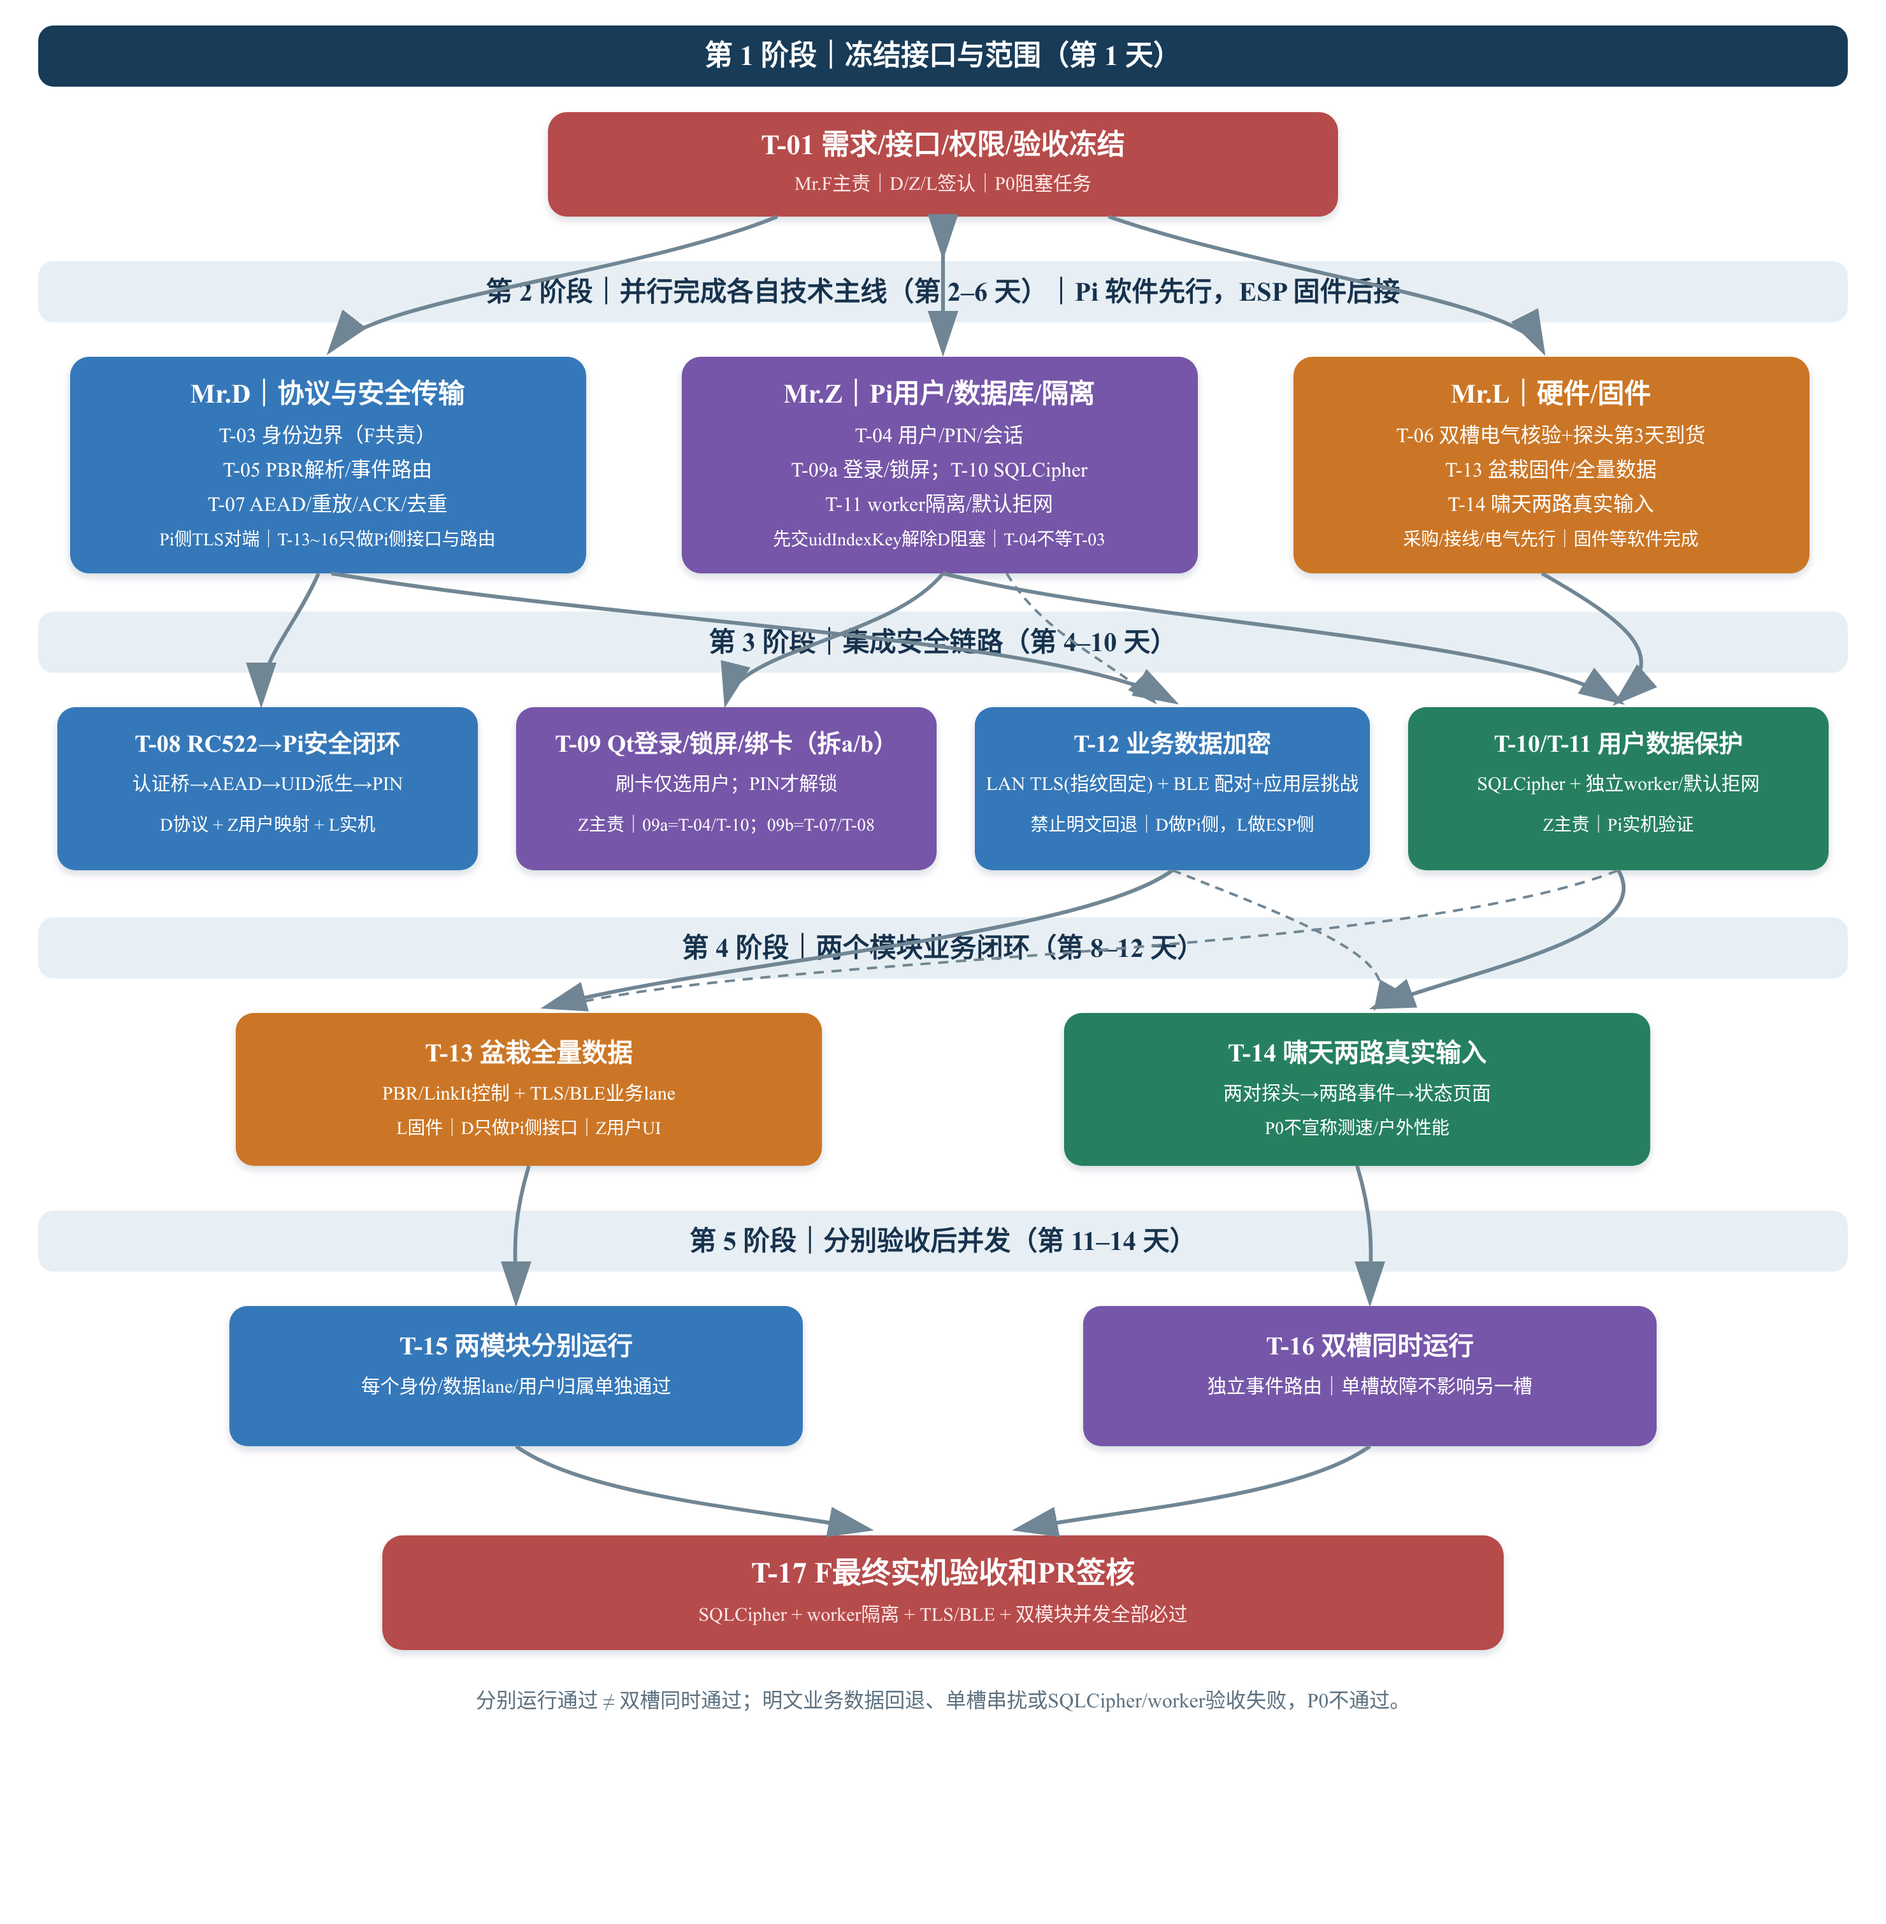
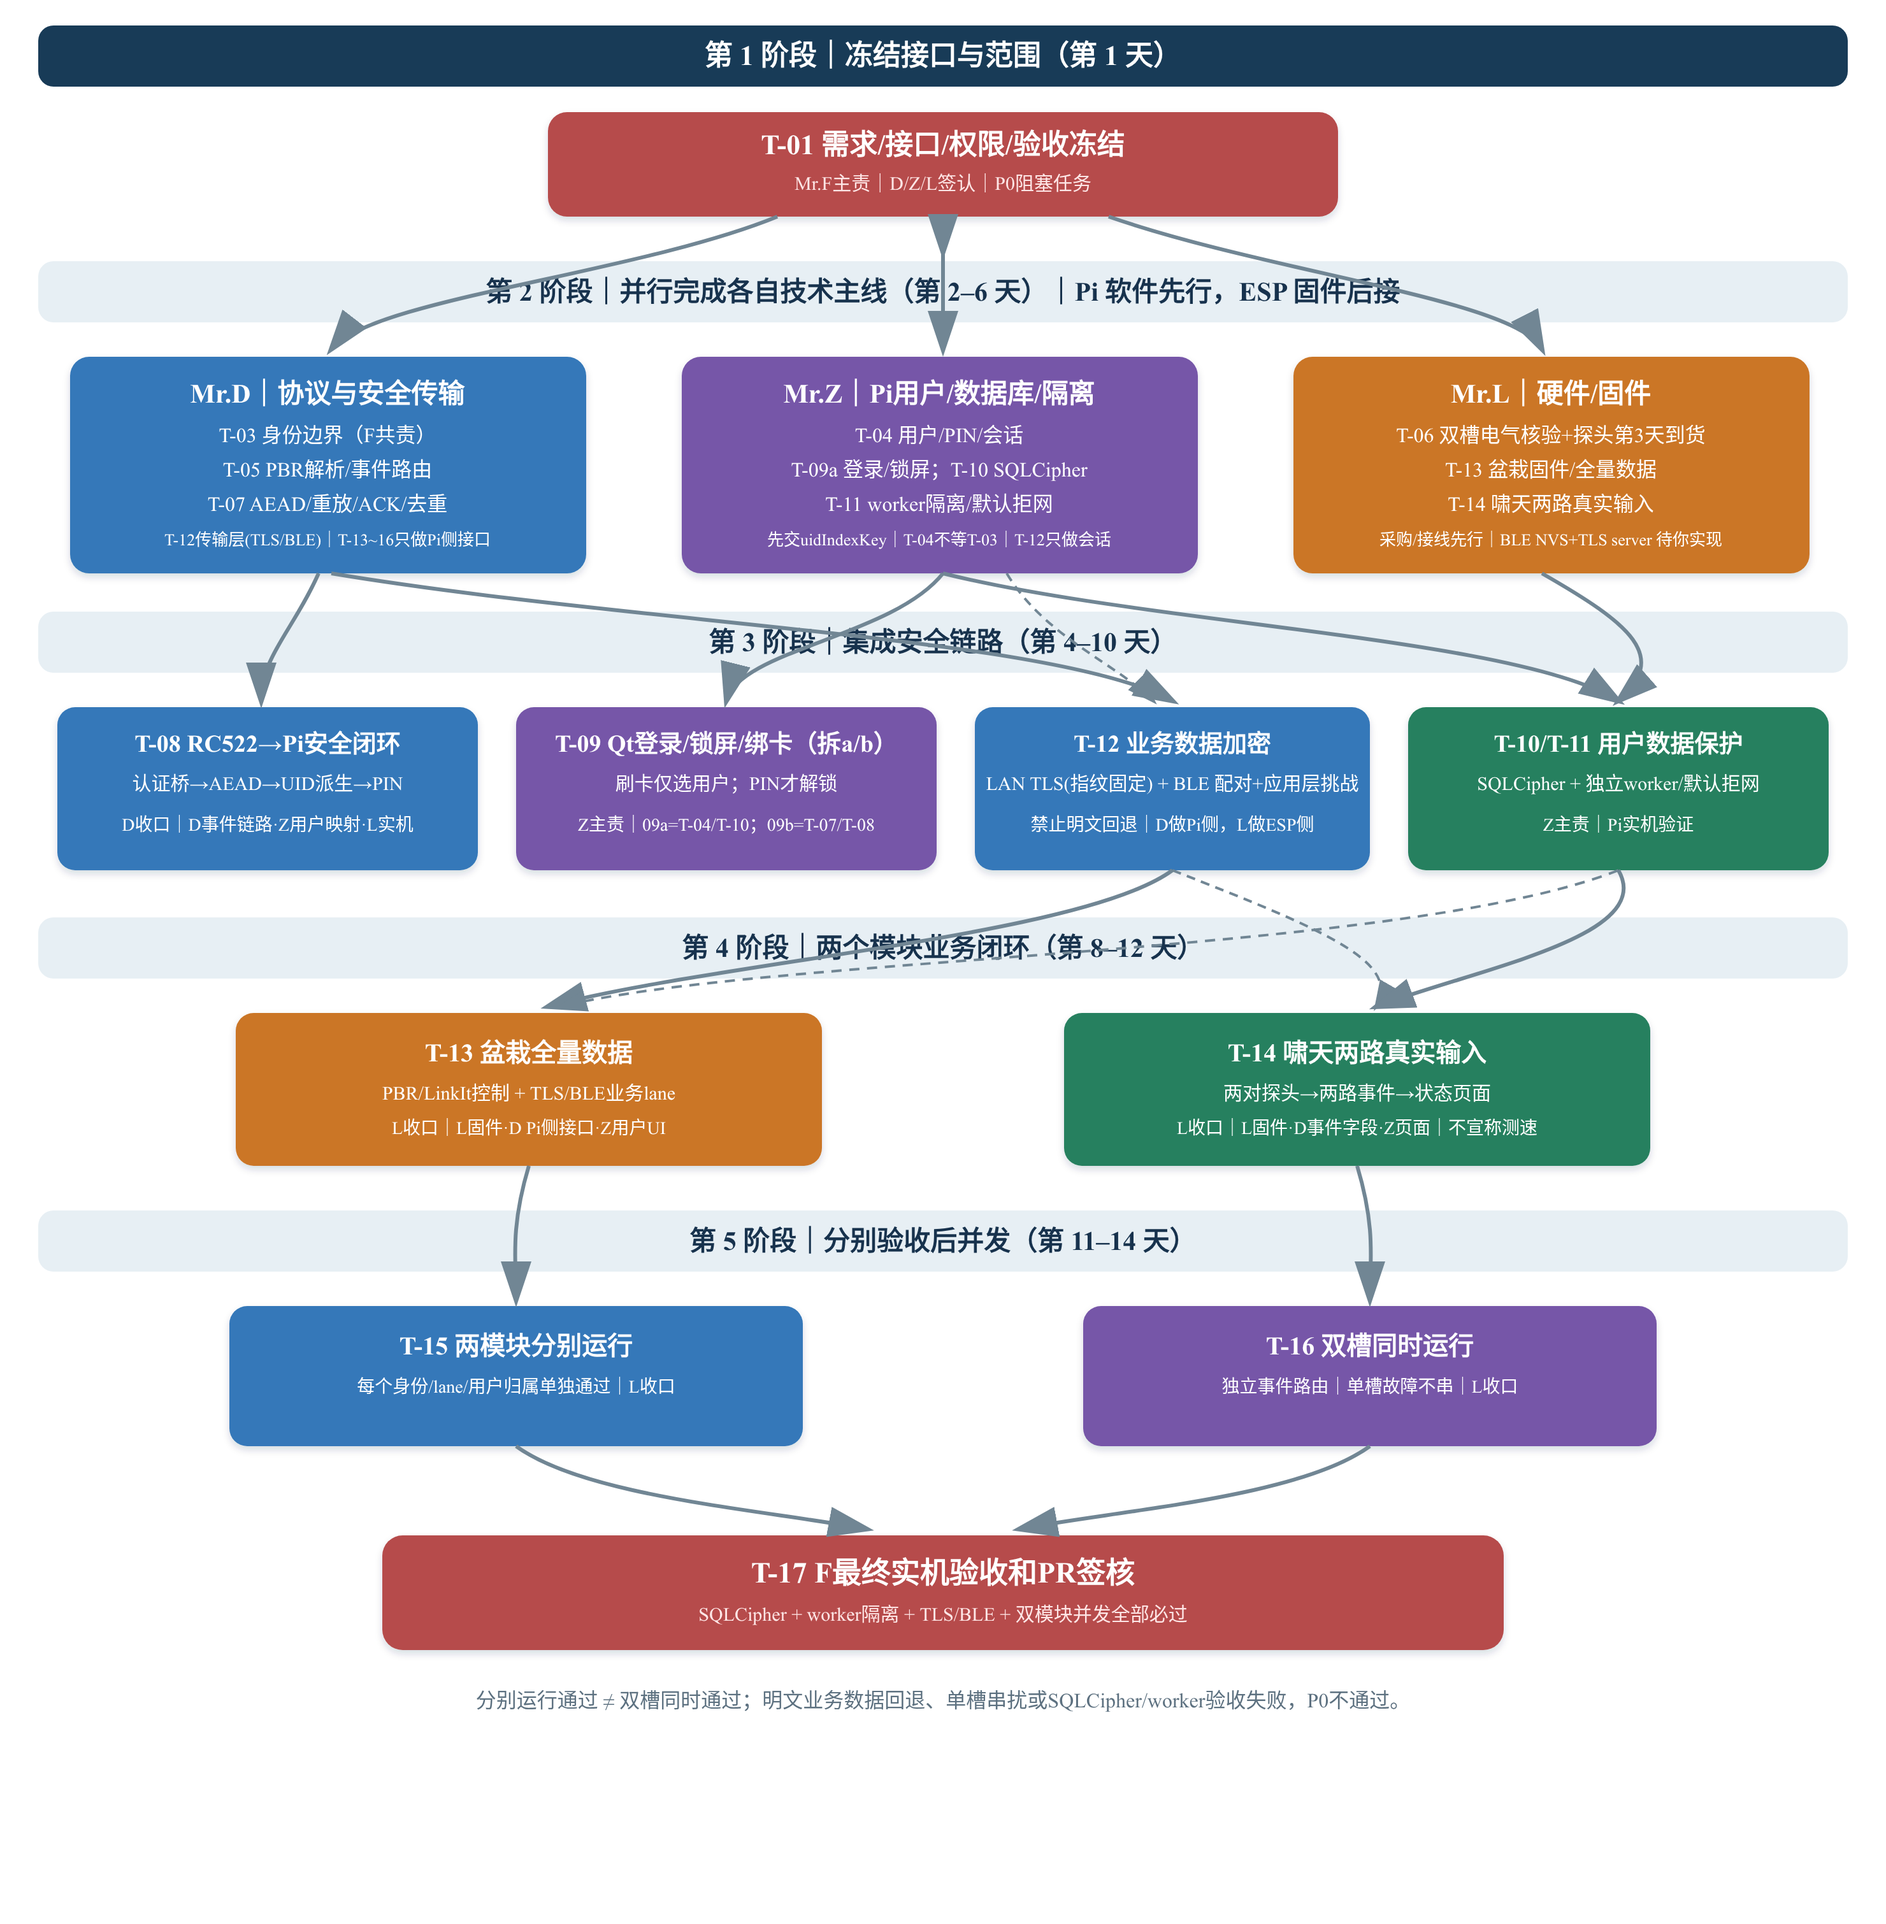
docs(diagram): show the sign-off owner on every card
You were right to ask. The diagram had been updated for the BLE decision and
the T-09 split, but not for the ownership change from the previous commit --
so the one thing that most needs to be unambiguous, who closes each task, was
still missing from the picture.

T-13, T-14, T-15 and T-16 now lead with L as sign-off owner; T-08 leads with D.
The role columns follow:

- D's line said "Pi-side TLS peer", which predates BLE being in scope. It now
  says T-12 transport layer (TLS/BLE).
- Z's line gains "T-12 session only", since that is the boundary that keeps him
  out of BleTransport.
- L's line names what is actually waiting on him: BLE NVS and the TLS server.

T-14's "P0 does not claim speed/outdoor" note was about to be overwritten by
the owner text; kept both, at the smaller size.

Regenerated SVG from the HTML markup and re-rendered the PNG from the same
source, so all three agree. Looked at the render: nothing overflows its card.

diff --git a/docs/devdocs/team-work-dependency-diagram.html b/docs/devdocs/team-work-dependency-diagram.html
@@ -10,17 +10,17 @@
 <rect x="430" y="88" width="620" height="82" rx="15" fill="#b64b4b" filter="url(#s)"/><text x="740" y="121" text-anchor="middle" fill="white" font-size="22" font-weight="700">T-01 需求/接口/权限/验收冻结</text><text x="740" y="149" text-anchor="middle" fill="#ffe6e6" font-size="15">Mr.F主责｜D/Z/L签认｜P0阻塞任务</text><path d="M740 170V198" stroke="#718694" stroke-width="3" marker-end="url(#a)"/>
 <rect x="30" y="205" width="1420" height="48" rx="12" fill="#e7eff4"/><text x="740" y="236" text-anchor="middle" fill="#17324d" font-size="21" font-weight="700">第 2 阶段｜并行完成各自技术主线（第 2–6 天）｜Pi 软件先行，ESP 固件后接</text>
 <g filter="url(#s)"><rect x="55" y="280" width="405" height="170" rx="15" fill="#3478b9"/><rect x="535" y="280" width="405" height="170" rx="15" fill="#7656a8"/><rect x="1015" y="280" width="405" height="170" rx="15" fill="#cb7627"/></g>
-<g text-anchor="middle" fill="white"><text x="257" y="316" font-size="21" font-weight="700">Mr.D｜协议与安全传输</text><text x="257" y="347" font-size="16">T-03 身份边界（F共责）</text><text x="257" y="374" font-size="16">T-05 PBR解析/事件路由</text><text x="257" y="401" font-size="16">T-07 AEAD/重放/ACK/去重</text><text x="257" y="428" font-size="14">Pi侧TLS对端｜T-13~16只做Pi侧接口与路由</text><text x="737" y="316" font-size="21" font-weight="700">Mr.Z｜Pi用户/数据库/隔离</text><text x="737" y="347" font-size="16">T-04 用户/PIN/会话</text><text x="737" y="374" font-size="16">T-09a 登录/锁屏；T-10 SQLCipher</text><text x="737" y="401" font-size="16">T-11 worker隔离/默认拒网</text><text x="737" y="428" font-size="14">先交uidIndexKey解除D阻塞｜T-04不等T-03</text><text x="1217" y="316" font-size="21" font-weight="700">Mr.L｜硬件/固件</text><text x="1217" y="347" font-size="16">T-06 双槽电气核验+探头第3天到货</text><text x="1217" y="374" font-size="16">T-13 盆栽固件/全量数据</text><text x="1217" y="401" font-size="16">T-14 啸天两路真实输入</text><text x="1217" y="428" font-size="14">采购/接线/电气先行｜固件等软件完成</text></g>
+<g text-anchor="middle" fill="white"><text x="257" y="316" font-size="21" font-weight="700">Mr.D｜协议与安全传输</text><text x="257" y="347" font-size="16">T-03 身份边界（F共责）</text><text x="257" y="374" font-size="16">T-05 PBR解析/事件路由</text><text x="257" y="401" font-size="16">T-07 AEAD/重放/ACK/去重</text><text x="257" y="428" font-size="13">T-12传输层(TLS/BLE)｜T-13~16只做Pi侧接口</text><text x="737" y="316" font-size="21" font-weight="700">Mr.Z｜Pi用户/数据库/隔离</text><text x="737" y="347" font-size="16">T-04 用户/PIN/会话</text><text x="737" y="374" font-size="16">T-09a 登录/锁屏；T-10 SQLCipher</text><text x="737" y="401" font-size="16">T-11 worker隔离/默认拒网</text><text x="737" y="428" font-size="13">先交uidIndexKey｜T-04不等T-03｜T-12只做会话</text><text x="1217" y="316" font-size="21" font-weight="700">Mr.L｜硬件/固件</text><text x="1217" y="347" font-size="16">T-06 双槽电气核验+探头第3天到货</text><text x="1217" y="374" font-size="16">T-13 盆栽固件/全量数据</text><text x="1217" y="401" font-size="16">T-14 啸天两路真实输入</text><text x="1217" y="428" font-size="13">采购/接线先行｜BLE NVS+TLS server 待你实现</text></g>
 <path d="M610 170C500 215 290 235 260 274" fill="none" stroke="#718694" stroke-width="3" marker-end="url(#a)"/><path d="M740 170V274" stroke="#718694" stroke-width="3" marker-end="url(#a)"/><path d="M870 170C1000 215 1190 235 1210 274" fill="none" stroke="#718694" stroke-width="3" marker-end="url(#a)"/>
 <rect x="30" y="480" width="1420" height="48" rx="12" fill="#e7eff4"/><text x="740" y="511" text-anchor="middle" fill="#17324d" font-size="21" font-weight="700">第 3 阶段｜集成安全链路（第 4–10 天）</text>
 <g filter="url(#s)"><rect x="45" y="555" width="330" height="128" rx="14" fill="#3478b9"/><rect x="405" y="555" width="330" height="128" rx="14" fill="#7656a8"/><rect x="765" y="555" width="310" height="128" rx="14" fill="#3478b9"/><rect x="1105" y="555" width="330" height="128" rx="14" fill="#27805e"/></g>
-<g text-anchor="middle" fill="white"><text x="210" y="590" font-size="19" font-weight="700">T-08 RC522→Pi安全闭环</text><text x="210" y="620" font-size="15">认证桥→AEAD→UID派生→PIN</text><text x="210" y="652" font-size="14">D协议 + Z用户映射 + L实机</text><text x="570" y="590" font-size="19" font-weight="700">T-09 Qt登录/锁屏/绑卡（拆a/b）</text><text x="570" y="620" font-size="15">刷卡仅选用户；PIN才解锁</text><text x="570" y="652" font-size="14">Z主责｜09a=T-04/T-10；09b=T-07/T-08</text><text x="920" y="590" font-size="19" font-weight="700">T-12 业务数据加密</text><text x="920" y="620" font-size="15">LAN TLS(指纹固定) + BLE 配对+应用层挑战</text><text x="920" y="652" font-size="14">禁止明文回退｜D做Pi侧，L做ESP侧</text><text x="1270" y="590" font-size="19" font-weight="700">T-10/T-11 用户数据保护</text><text x="1270" y="620" font-size="15">SQLCipher + 独立worker/默认拒网</text><text x="1270" y="652" font-size="14">Z主责｜Pi实机验证</text></g>
+<g text-anchor="middle" fill="white"><text x="210" y="590" font-size="19" font-weight="700">T-08 RC522→Pi安全闭环</text><text x="210" y="620" font-size="15">认证桥→AEAD→UID派生→PIN</text><text x="210" y="652" font-size="14">D收口｜D事件链路·Z用户映射·L实机</text><text x="570" y="590" font-size="19" font-weight="700">T-09 Qt登录/锁屏/绑卡（拆a/b）</text><text x="570" y="620" font-size="15">刷卡仅选用户；PIN才解锁</text><text x="570" y="652" font-size="14">Z主责｜09a=T-04/T-10；09b=T-07/T-08</text><text x="920" y="590" font-size="19" font-weight="700">T-12 业务数据加密</text><text x="920" y="620" font-size="15">LAN TLS(指纹固定) + BLE 配对+应用层挑战</text><text x="920" y="652" font-size="14">禁止明文回退｜D做Pi侧，L做ESP侧</text><text x="1270" y="590" font-size="19" font-weight="700">T-10/T-11 用户数据保护</text><text x="1270" y="620" font-size="15">SQLCipher + 独立worker/默认拒网</text><text x="1270" y="652" font-size="14">Z主责｜Pi实机验证</text></g>
 <path d="M250 450C230 495 205 515 205 550" fill="none" stroke="#718694" stroke-width="3" marker-end="url(#a)"/><path d="M740 450C700 500 580 510 570 550" fill="none" stroke="#718694" stroke-width="3" marker-end="url(#a)"/><path d="M790 450C820 500 875 520 905 550" fill="none" stroke="#718694" stroke-width="2" stroke-dasharray="7 5" marker-end="url(#a)"/><path d="M260 450C500 490 830 500 920 550" fill="none" stroke="#718694" stroke-width="3" marker-end="url(#a)"/><path d="M740 450C900 490 1190 500 1270 550" fill="none" stroke="#718694" stroke-width="3" marker-end="url(#a)"/><path d="M1210 450C1280 490 1310 515 1270 550" fill="none" stroke="#718694" stroke-width="3" marker-end="url(#a)"/>
 <rect x="30" y="720" width="1420" height="48" rx="12" fill="#e7eff4"/><text x="740" y="751" text-anchor="middle" fill="#17324d" font-size="21" font-weight="700">第 4 阶段｜两个模块业务闭环（第 8–12 天）</text>
-<g filter="url(#s)"><rect x="185" y="795" width="460" height="120" rx="14" fill="#cb7627"/><rect x="835" y="795" width="460" height="120" rx="14" fill="#27805e"/></g><g text-anchor="middle" fill="white"><text x="415" y="833" font-size="20" font-weight="700">T-13 盆栽全量数据</text><text x="415" y="863" font-size="15">PBR/LinkIt控制 + TLS/BLE业务lane</text><text x="415" y="890" font-size="14">L固件｜D只做Pi侧接口｜Z用户UI</text><text x="1065" y="833" font-size="20" font-weight="700">T-14 啸天两路真实输入</text><text x="1065" y="863" font-size="15">两对探头→两路事件→状态页面</text><text x="1065" y="890" font-size="14">P0不宣称测速/户外性能</text></g>
+<g filter="url(#s)"><rect x="185" y="795" width="460" height="120" rx="14" fill="#cb7627"/><rect x="835" y="795" width="460" height="120" rx="14" fill="#27805e"/></g><g text-anchor="middle" fill="white"><text x="415" y="833" font-size="20" font-weight="700">T-13 盆栽全量数据</text><text x="415" y="863" font-size="15">PBR/LinkIt控制 + TLS/BLE业务lane</text><text x="415" y="890" font-size="14">L收口｜L固件·D Pi侧接口·Z用户UI</text><text x="1065" y="833" font-size="20" font-weight="700">T-14 啸天两路真实输入</text><text x="1065" y="863" font-size="15">两对探头→两路事件→状态页面</text><text x="1065" y="890" font-size="14">L收口｜L固件·D事件字段·Z页面｜不宣称测速</text></g>
 <path d="M920 683C850 735 560 755 430 790" fill="none" stroke="#718694" stroke-width="3" marker-end="url(#a)"/><path d="M920 683C1040 730 1100 755 1080 790" fill="none" stroke="#718694" stroke-width="2" stroke-dasharray="7 5" marker-end="url(#a)"/><path d="M1270 683C1300 735 1160 760 1080 790" fill="none" stroke="#718694" stroke-width="3" marker-end="url(#a)"/><path d="M1270 683C1100 750 600 750 440 790" fill="none" stroke="#718694" stroke-width="2" stroke-dasharray="8 6" marker-end="url(#a)"/>
 <rect x="30" y="950" width="1420" height="48" rx="12" fill="#e7eff4"/><text x="740" y="981" text-anchor="middle" fill="#17324d" font-size="21" font-weight="700">第 5 阶段｜分别验收后并发（第 11–14 天）</text>
-<g filter="url(#s)"><rect x="180" y="1025" width="450" height="110" rx="14" fill="#3478b9"/><rect x="850" y="1025" width="450" height="110" rx="14" fill="#7656a8"/></g><g text-anchor="middle" fill="white"><text x="405" y="1063" font-size="20" font-weight="700">T-15 两模块分别运行</text><text x="405" y="1093" font-size="15">每个身份/数据lane/用户归属单独通过</text><text x="1075" y="1063" font-size="20" font-weight="700">T-16 双槽同时运行</text><text x="1075" y="1093" font-size="15">独立事件路由｜单槽故障不影响另一槽</text></g>
+<g filter="url(#s)"><rect x="180" y="1025" width="450" height="110" rx="14" fill="#3478b9"/><rect x="850" y="1025" width="450" height="110" rx="14" fill="#7656a8"/></g><g text-anchor="middle" fill="white"><text x="405" y="1063" font-size="20" font-weight="700">T-15 两模块分别运行</text><text x="405" y="1093" font-size="14">每个身份/lane/用户归属单独通过｜L收口</text><text x="1075" y="1063" font-size="20" font-weight="700">T-16 双槽同时运行</text><text x="1075" y="1093" font-size="14">独立事件路由｜单槽故障不串｜L收口</text></g>
 <path d="M415 915C400 965 405 990 405 1020" fill="none" stroke="#718694" stroke-width="3" marker-end="url(#a)"/><path d="M1065 915C1080 965 1075 990 1075 1020" fill="none" stroke="#718694" stroke-width="3" marker-end="url(#a)"/>
 <rect x="300" y="1205" width="880" height="90" rx="16" fill="#b64b4b" filter="url(#s)"/><text x="740" y="1242" text-anchor="middle" fill="white" font-size="23" font-weight="700">T-17 F最终实机验收和PR签核</text><text x="740" y="1272" text-anchor="middle" fill="#ffe6e6" font-size="15">SQLCipher + worker隔离 + TLS/BLE + 双模块并发全部必过</text><path d="M405 1135C460 1175 600 1185 680 1200" fill="none" stroke="#718694" stroke-width="3" marker-end="url(#a)"/><path d="M1075 1135C1020 1175 880 1185 800 1200" fill="none" stroke="#718694" stroke-width="3" marker-end="url(#a)"/>
 <text x="740" y="1340" text-anchor="middle" fill="#5d7180" font-size="16">分别运行通过 ≠ 双槽同时通过；明文业务数据回退、单槽串扰或SQLCipher/worker验收失败，P0不通过。</text>
